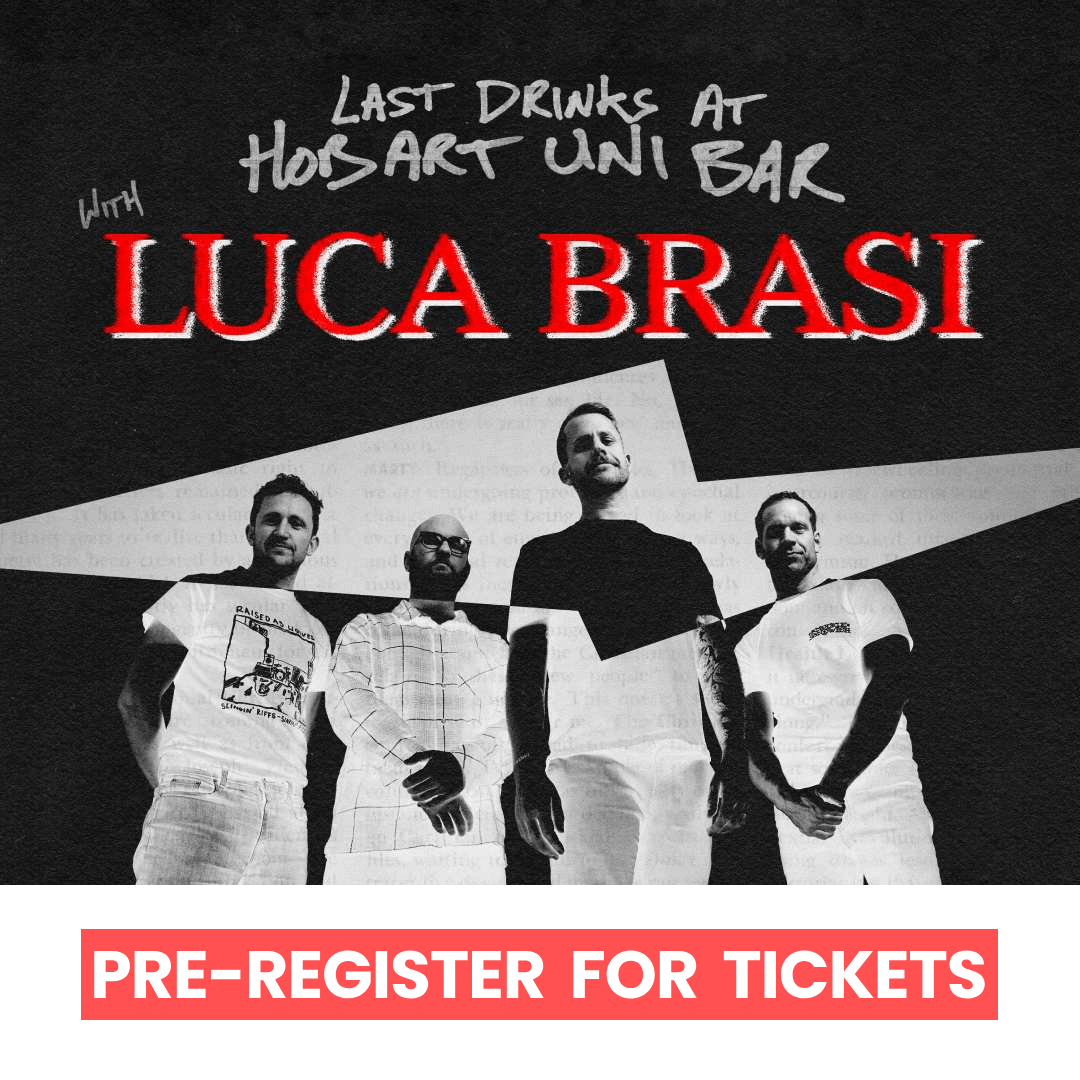
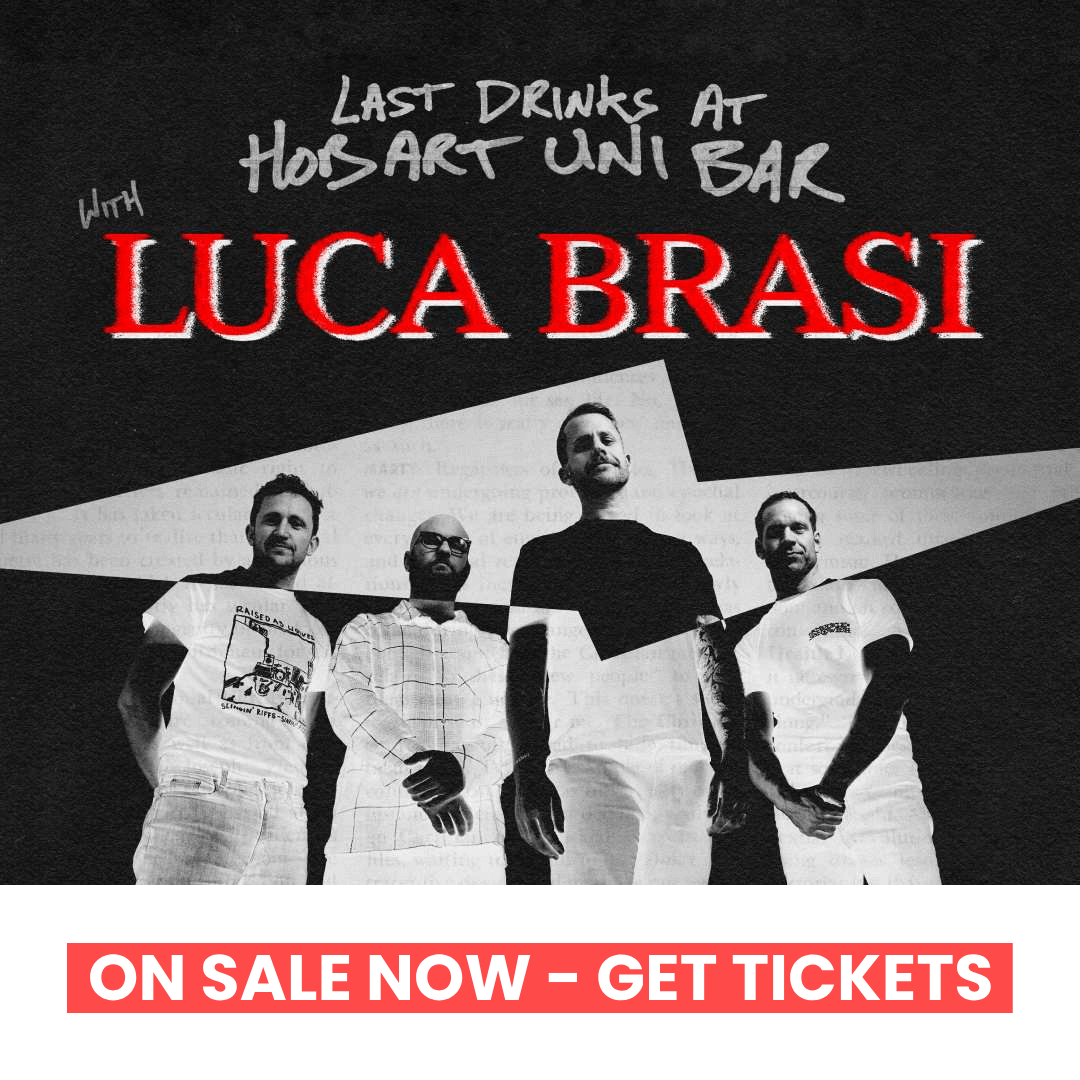
Add files via upload

Changed region(s): [[0.0611, 0.8556, 0.9472, 0.9472]]

diff --git a/upcoming.html b/upcoming.html
@@ -4612,7 +4612,7 @@ ONEFOUR embark on their biggest Australian tour yet, ‘LOOK AT ME NOW’, boldl
                    <h4>Fri 27<sup>th</sup> June 2025</h4>
                     <div class="event-info">
                         <img style="height: 50px; padding-right: 10px;" src="assets/img/vt_weblogos/unibar.png" alt="Uni Bar Logo" class="img-fluid">
-                        <a href="https://tickets.oztix.com.au/outlet/event/fde7a256-b146-4122-b0f9-e6a660400c41" target="_blank" class="btn btn-oztix">Pre-register on<img class="oztixlogo_img" src="assets/img/oztixcrop.png"></a><p style="color: red;">On Sale 9am Tue 15 April</p>
+                        <a href="https://tickets.oztix.com.au/outlet/event/fde7a256-b146-4122-b0f9-e6a660400c41" target="_blank" class="btn btn-oztix">Tickets from<img class="oztixlogo_img" src="assets/img/oztixcrop.png"></a>
                     </div>
                 </div>
                 
